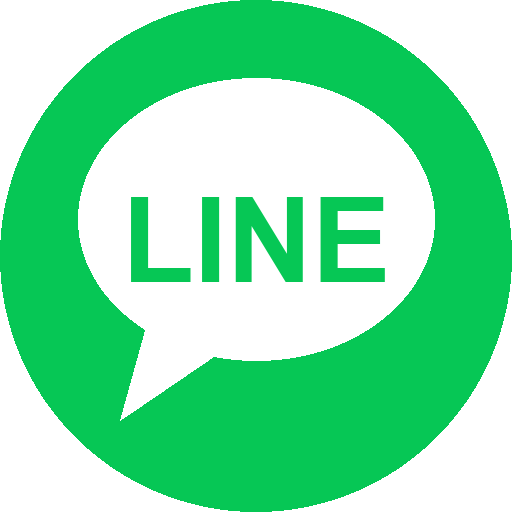
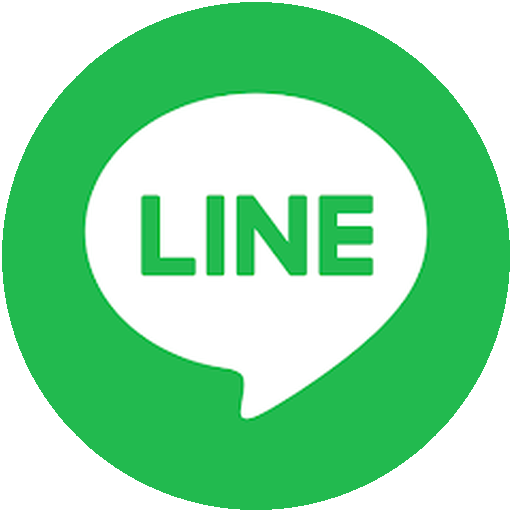
改用用户提供的 LINE 图标并裁成圆形悬浮按钮

diff --git a/src/components/ContactFab.tsx b/src/components/ContactFab.tsx
@@ -6,26 +6,13 @@ import { LINE_CONTACT } from "@/lib/contact-channels";
 
 function LineAppIcon({ className = "h-14 w-14" }: { className?: string }) {
   return (
-    <svg viewBox="0 0 48 48" className={className} aria-hidden="true">
-      <circle cx="24" cy="24" r="24" fill="#06C755" />
-      <path
-        fill="#fff"
-        d="M24 9.2c-7.9 0-14.3 5.05-14.3 11.28 0 5.57 4.95 10.23 11.64 11.1l-.12 3.7c-.04.58.61.93 1.05.58l4.35-3.4c.76.1 1.55.15 2.38.15 7.9 0 14.3-5.05 14.3-11.28S31.9 9.2 24 9.2Z"
-      />
-      <text
-        x="24"
-        y="22.2"
-        textAnchor="middle"
-        dominantBaseline="middle"
-        fill="#06C755"
-        fontSize="8"
-        fontWeight="700"
-        fontFamily="Arial Black, Arial, Helvetica, sans-serif"
-        letterSpacing="0.6"
-      >
-        LINE
-      </text>
-    </svg>
+    // eslint-disable-next-line @next/next/no-img-element
+    <img
+      src="/brand/line-icon.png"
+      alt=""
+      aria-hidden="true"
+      className={`object-cover ${className}`}
+    />
   );
 }
 
